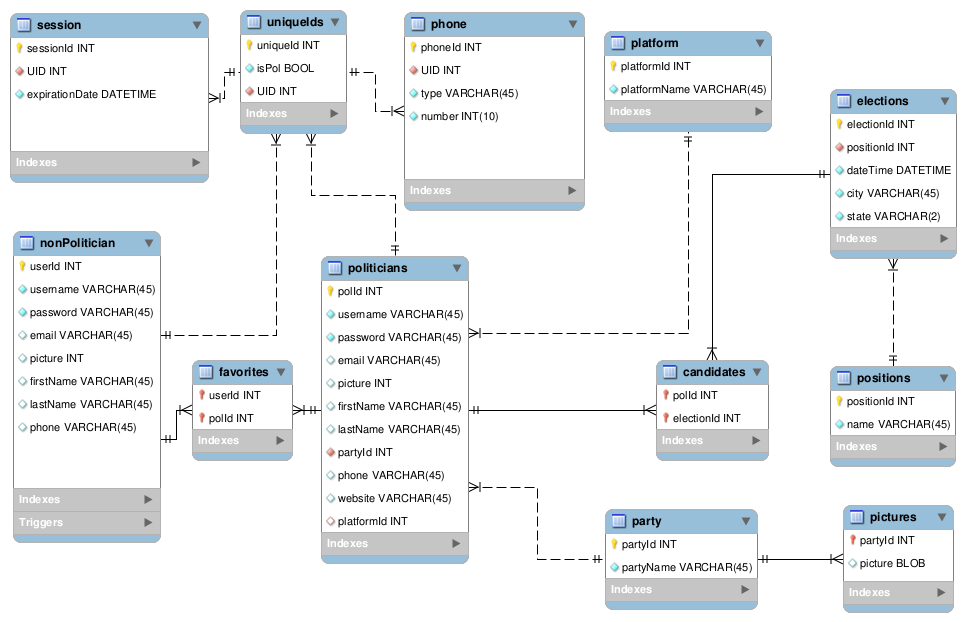
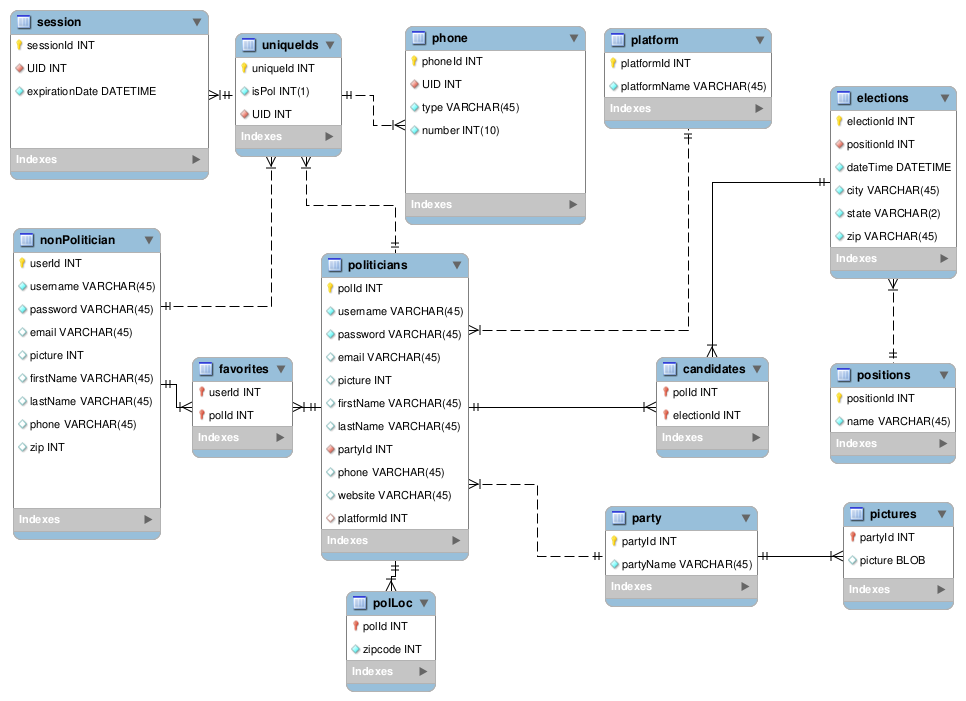
change to allow for location

diff --git a/test/test/handlers.js b/test/test/handlers.js
@@ -50,7 +50,7 @@ class handlers {
     }
     getElections (request, reply) {
         console.log('Server processing a /getElections request');
-        pool.query('SELECT `firstName`, `lastName`, `name` AS `position`, `dateTime`, `city`, `state` FROM `elections` NATURAL JOIN `positions` NATURAL JOIN `candidates` NATURAL JOIN `politicians`', function (error, results, fields){
+        pool.query('SELECT `firstName`, `lastName`, `name` AS `position`, `dateTime`, `city`, `state`, `zip` FROM `elections` NATURAL JOIN `positions` NATURAL JOIN `candidates` NATURAL JOIN `politicians`', function (error, results, fields){
             if (error)
                 throw error;
             //Sends back to the client the value of 1 + 1
@@ -131,11 +131,12 @@ class handlers {
         });
         
     } 
+
     postNonPol(request, reply) {
         console.log('Server processing a /nonPol POST request');
-        pool.query('INSERT INTO `nonPolitician` (`username`,`password`,`email`,`picture`,`firstName`,`lastName`,`phone`) VALUES(?, ?, ?, ?, ?, ?, ?)',
+        pool.query('INSERT INTO `nonPolitician` (`username`,`password`,`email`,`picture`,`firstName`,`lastName`,`phone`,`zip`) VALUES(?, ?, ?, ?, ?, ?, ?, ?)',
         [request.payload['username'],request.payload['password'],request.payload['email'],request.payload['picture'],request.payload['firstName'],
-        request.payload['lastName'], request.payload['phone']],function (error, results, fields){
+        request.payload['lastName'], request.payload['phone'], request.payload['zip']],function (error, results, fields){
             if (error)
                 throw error;
             reply (results);
@@ -151,6 +152,13 @@ class handlers {
                 throw error;
             else reply(results);
         });
+    }
+    postPolLoc(request, reply){
+        console.log('server processing a /polLoc POST request');
+        pool.query('INSERT INTO `polLoc` (`polId`,`zipcode`) VALUES (?,?)', [request.payload['polId'],request.payload['zip']],function(err,results,fields){
+            if (err) throw err;
+            reply(results);
+        })
     }
     updateNonPolCreds(request, reply) {
         console.log('Server processing a /nonPol credential PUT request');
@@ -304,6 +312,14 @@ class handlers {
         });
         
         
+    }
+    polLoc (request,reply){
+        console.log('Server processing a /candidates request');
+        pool.query('Select * FROM `politicians` NATURAL JOIN `polLoc` WHERE zipcode=?', request.params['zip'], function (err, results, fields){
+            if (err)
+                throw err;
+        reply(results);
+        });
     }
 
 }

diff --git a/test/test/server.js b/test/test/server.js
@@ -177,6 +177,17 @@ server.route({ //Gets candidates by electionId code
     path: '/candidates/{electionId}',
     handler: handlers.candidatesByElectionId
 });
+server.route({ //Gets candidates by electionId code
+    method: 'GET',
+    path: '/pol/{zip}',
+    handler: handlers.polLoc
+});
+server.route({ //Gets candidates by electionId code
+    method: 'POST',
+    path: '/polLoc',
+    handler: handlers.postPolLoc
+});
+
 /*server.route({
     method: ['POST','GET'],
     path: '/login',
